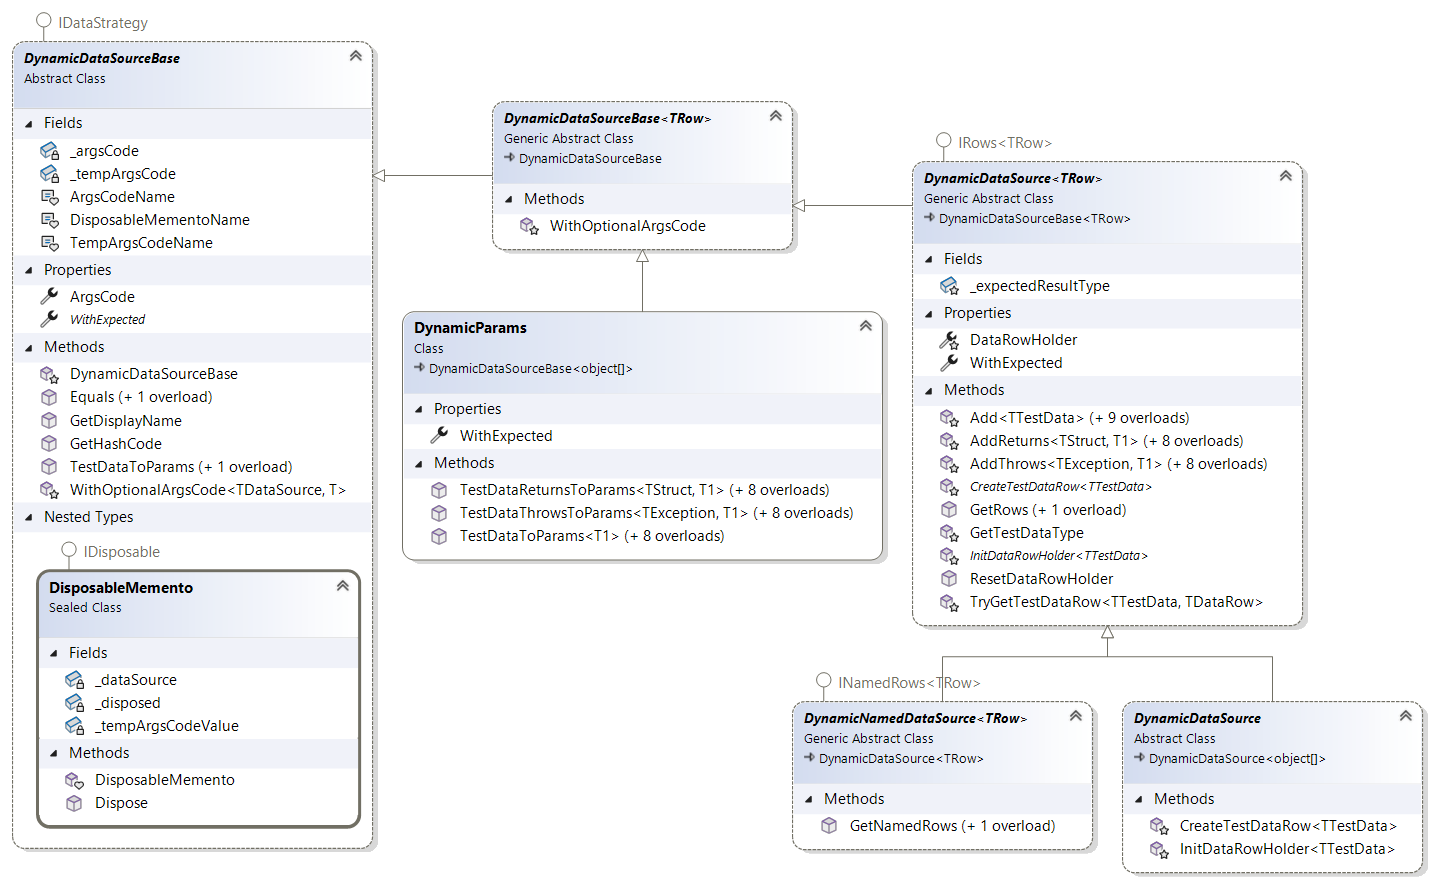
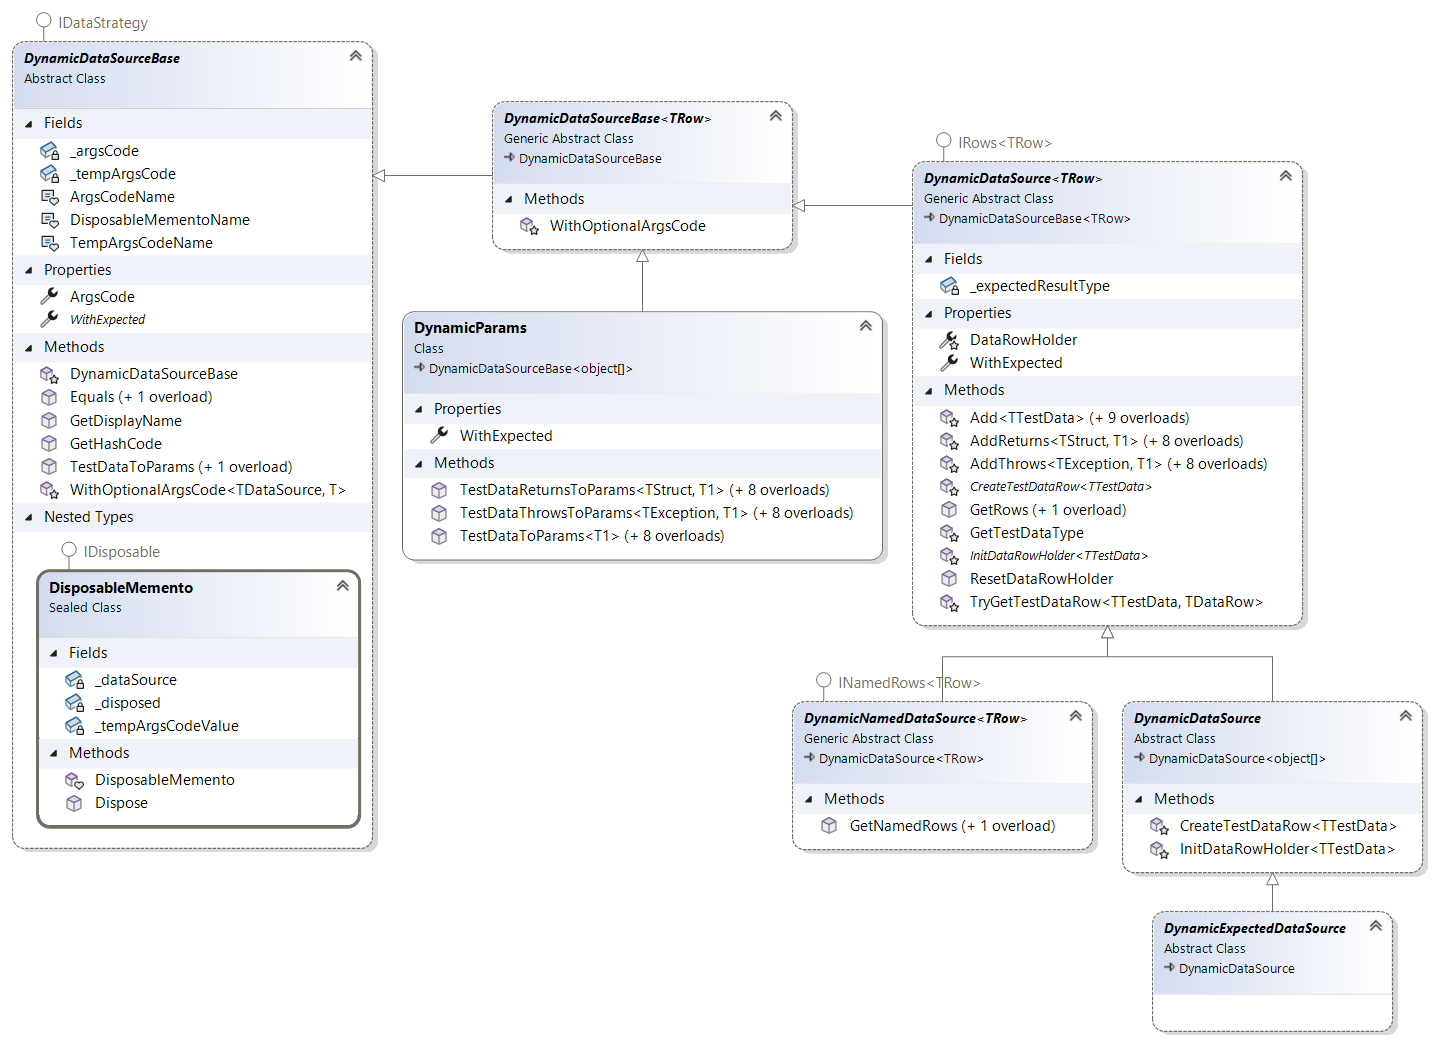
Expected DataSource

Changed region(s): [[0.2762, 0.0916, 1.0, 1.0], [0.0, 0.0, 0.2762, 0.9774], [0.8898, 0.1527, 0.9205, 0.2138]]

diff --git a/DynamicDataSources/DynamicDataSource.cs b/DynamicDataSources/DynamicDataSource.cs
@@ -11,7 +11,7 @@ public abstract class DynamicDataSource<TRow>(ArgsCode argsCode, Type? expectedR
 IRows<TRow>
 {
     #region Fields
-    protected Type? _expectedResultType = expectedResultType;
+    private Type? _expectedResultType = expectedResultType;
     #endregion
 
     #region Properties
@@ -69,7 +69,6 @@ IRows<TRow>
                     typeof(TTestData));
 
             InitDataRowHolder(testData);
-
             return false;
         }
 

diff --git a/DynamicDataSources/DynamicExpectedDataSource.cs b/DynamicDataSources/DynamicExpectedDataSource.cs
@@ -1,0 +1,7 @@
+// SPDX-License-Identifier: MIT
+// Copyright (c) 2025. Csaba Dudas (CsabaDu)
+
+namespace CsabaDu.DynamicTestData.DynamicDataSources;
+
+public abstract class DynamicExpectedDataSource(ArgsCode argsCode)
+: DynamicDataSource(argsCode, typeof(IExpected));
